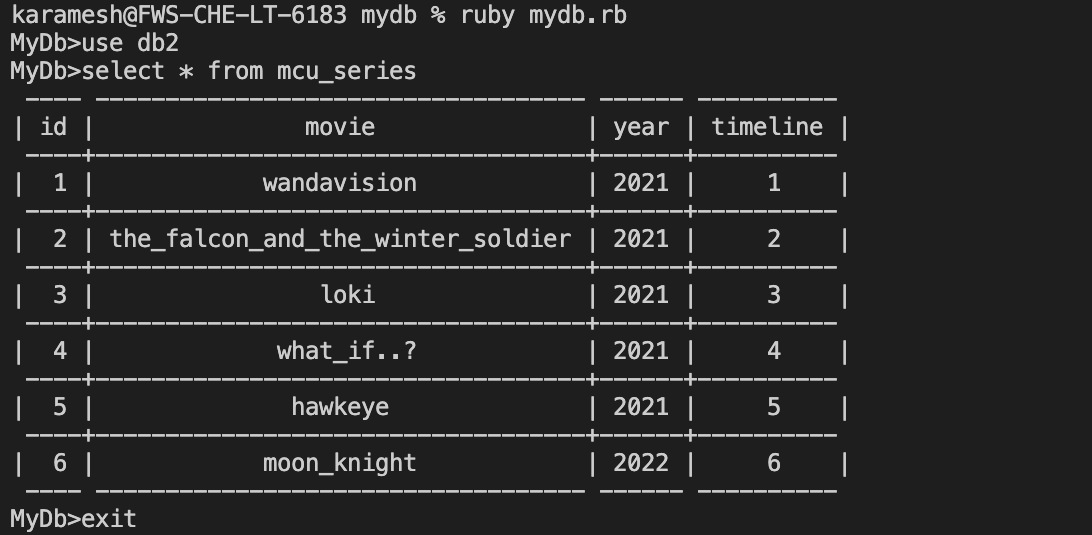
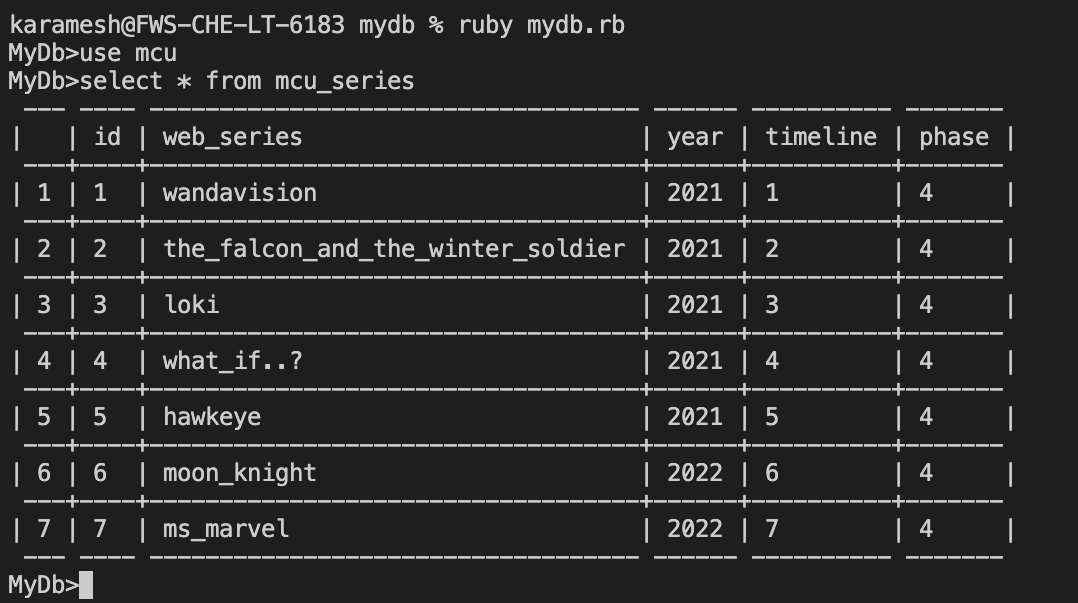
Table content has aligned left

Changed region(s): [[0.0, 0.0, 0.9184, 1.0]]

diff --git a/table.rb b/table.rb
@@ -25,7 +25,12 @@ module Table
         return maxContent
     end
 
-    def Table.table(contents)
+    def Table.tableBody(contents, center_align=false)
+        contents[0].unshift(" ")
+        for i in 1...contents.size
+            contents[i].unshift(i.to_s)
+        end
+
         cols = maxCols(contents)
         maxContent = maxColContent(contents, cols)
         cells = []; text = []
@@ -35,9 +40,13 @@ module Table
 
         contents.each do |content|
             content.each_with_index do |c, i|
-                s = (maxContent[i] - c.size)
-                spc = (s > 0 ? ' ' * (s/2) : '')
-                text << ((s == 1 ? ' ' : ((s%2 == 1 ? ' ' : '') + spc)) + c + spc)
+                if center_align
+                    s = (maxContent[i] - c.size)
+                    spc = (s > 0 ? ' ' * (s/2) : '')
+                    text << ((s == 1 ? ' ' : ((s%2 == 1 ? ' ' : '') + spc)) + c + spc)
+                else
+                    text << (c + (" " * (maxContent[i] - c.size)))
+                end
             end
             cells << "| #{text.join(' | ')} |\n"
             text.clear()

diff --git a/mydb.rb b/mydb.rb
@@ -8,11 +8,14 @@ while (true)
         break
     elsif (ip == "show databases")
         dir = (%x{ cd databases; ls -d */ }).delete("/").split("\n")
-        Table::table(dir.map { |d| [d] })
+        dbs = dir.map { |d| [d] }; dbs.unshift(["databases"])
+        Table::tableBody(dbs)
     elsif (ip == "show tables")
         if (isDBSelected)
             tables = (%x{ cd databases/#{dml.getDatabase()}; ls *.csv }).split("\n")
-            Table::table(tables.map { |d| [d.slice(0, d.index("."))] })
+            tables = tables.map { |d| [d.slice(0, d.index("."))] }
+            tables.unshift(["tables"])
+            Table::tableBody(tables)
         else
             puts("Database was not selected")
         end
@@ -57,7 +60,6 @@ while (true)
                 puts("Database was not selected")
             end
         elsif (ip.first == 'delete')
-            # delete from mcu where movie = shang-chi_and_the_legend_of_the_ten_rings
             if (isDBSelected)
                 if (ip[1] == 'from' and ip[3] == 'where')
                     dml.delete(ip[2], ip[4], ip[5], ip.last)

diff --git a/DML.rb b/DML.rb
@@ -59,7 +59,6 @@ class DML < DDL
         end
     end
 
-    # delete from mcu where movie = shang-chi_and_the_legend_of_the_ten_rings
     def delete(tableName, columnName, compare, value)
         fileName = getFileName(tableName)
         deleteColumns = where(tableName, columnName, compare, value)
@@ -101,7 +100,7 @@ class DML < DDL
                     contents[i] = colNum.map { |c| content[c] }
                 end
             end
-            Table::table(orderBy(contents, order_by))
+            Table::tableBody(orderBy(contents, order_by))
         end
     end
 
@@ -120,6 +119,8 @@ class DML < DDL
                 head = contents.first; title = head.index(refName);
                 contents = contents.slice(1, contents.size-1)
                 case compare
+                when "like"
+                    contents = contents.filter { |content| content[title].include?(refValue) }
                 when "="
                     contents = contents.filter { |content| content[title] == refValue }
                 when "!="

diff --git a/README.md b/README.md
@@ -2,22 +2,4 @@
 
 #### run ruby mydb.rb
 
-MyDb>use db2
-MyDb>select * from mcu_series
- ---- ----------------------------------- ------ ---------- -------
-| id |             web_series            | year | timeline | phase |
- ----+-----------------------------------+------+----------+-------
-|  1 |            wandavision            | 2021 |     1    |   4   |
- ----+-----------------------------------+------+----------+-------
-|  2 | the_falcon_and_the_winter_soldier | 2021 |     2    |   4   |
- ----+-----------------------------------+------+----------+-------
-|  3 |                loki               | 2021 |     3    |   4   |
- ----+-----------------------------------+------+----------+-------
-|  4 |             what_if..?            | 2021 |     4    |   4   |
- ----+-----------------------------------+------+----------+-------
-|  5 |              hawkeye              | 2021 |     5    |   4   |
- ----+-----------------------------------+------+----------+-------
-|  6 |            moon_knight            | 2022 |     6    |   4   |
- ----+-----------------------------------+------+----------+-------
-|  7 |             ms_marvel             | 2022 |     7    |   4   |
- ---- ----------------------------------- ------ ---------- -------
+![Sample table](/sample-table.png)
